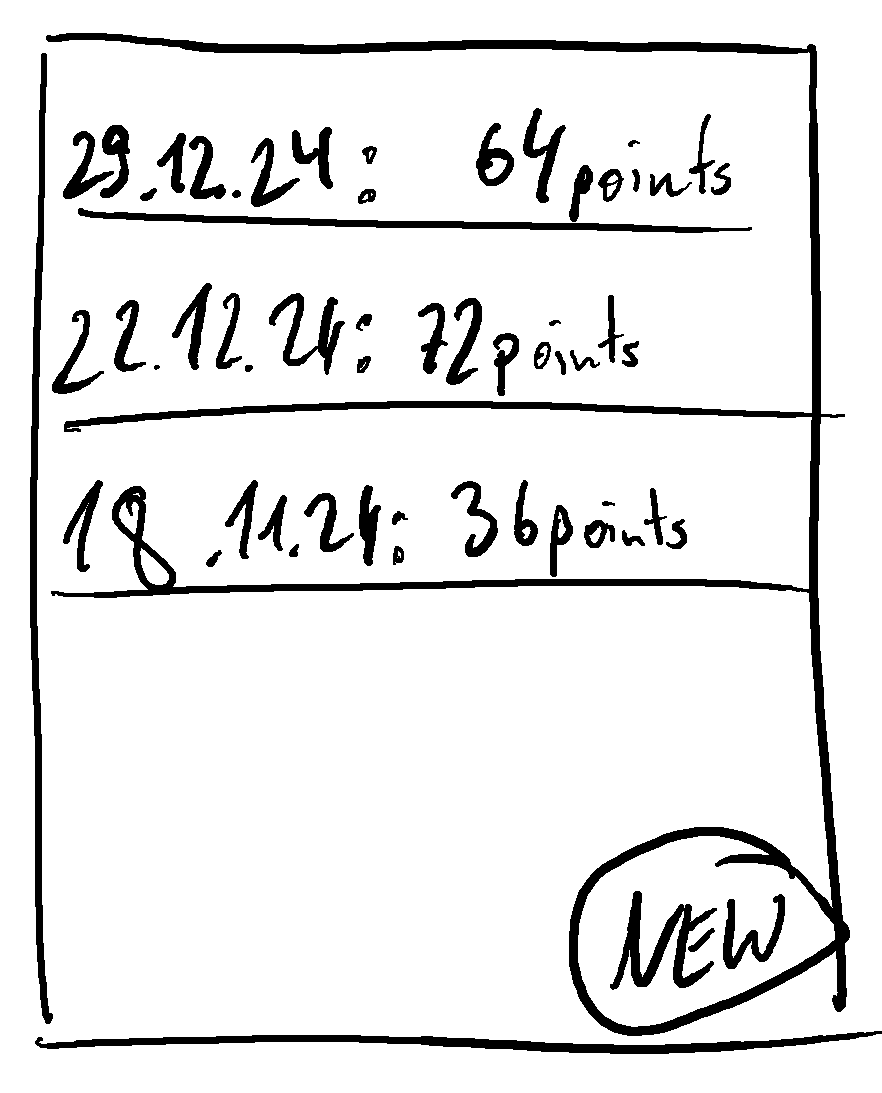
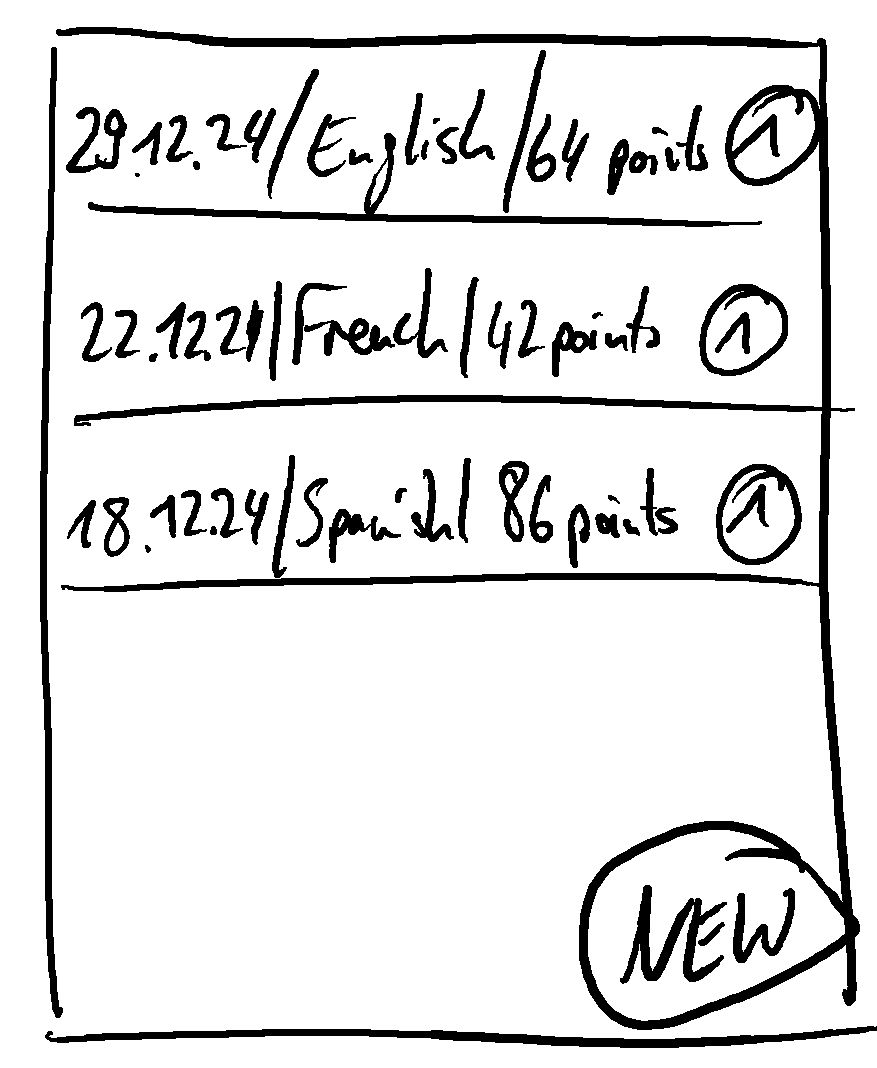
switch popup to accordeon

Changed region(s): [[0.0308, 0.0, 1.0, 0.9888]]

diff --git a/docs/concept.md b/docs/concept.md
@@ -67,19 +67,17 @@ Please send at least 10 words to receive a meaningful feedback."*
 ### Log
 
 The log screen shows a list of past conversations.
-This list is similar in style to an overview screen
-with all ongoing chats in chat apps like Telegram.
 Each conversation in that list shows the start_date of
-that conversation and the overall score.
+that conversation, the language the user used and the overall score.
 
 <img src="./files/lugha-sketch-log-base.png"
   alt="lugha-sketch-log-base.png" width="25%" />
 
 When a user clicks on a conversation,
-a pop up opens that shows the evaluation that
+an accordeon opens that shows the full evaluation that
 the user received for that conversation.
 
-<img src="./files/lugha-sketch-log-popup.png"
+<img src="./files/lugha-sketch-log-accordeon.png"
   alt="lugha-sketch-log-popup.png" width="25%" />
 
 On the log screen, when a user clicks on the “NEW” button in the
